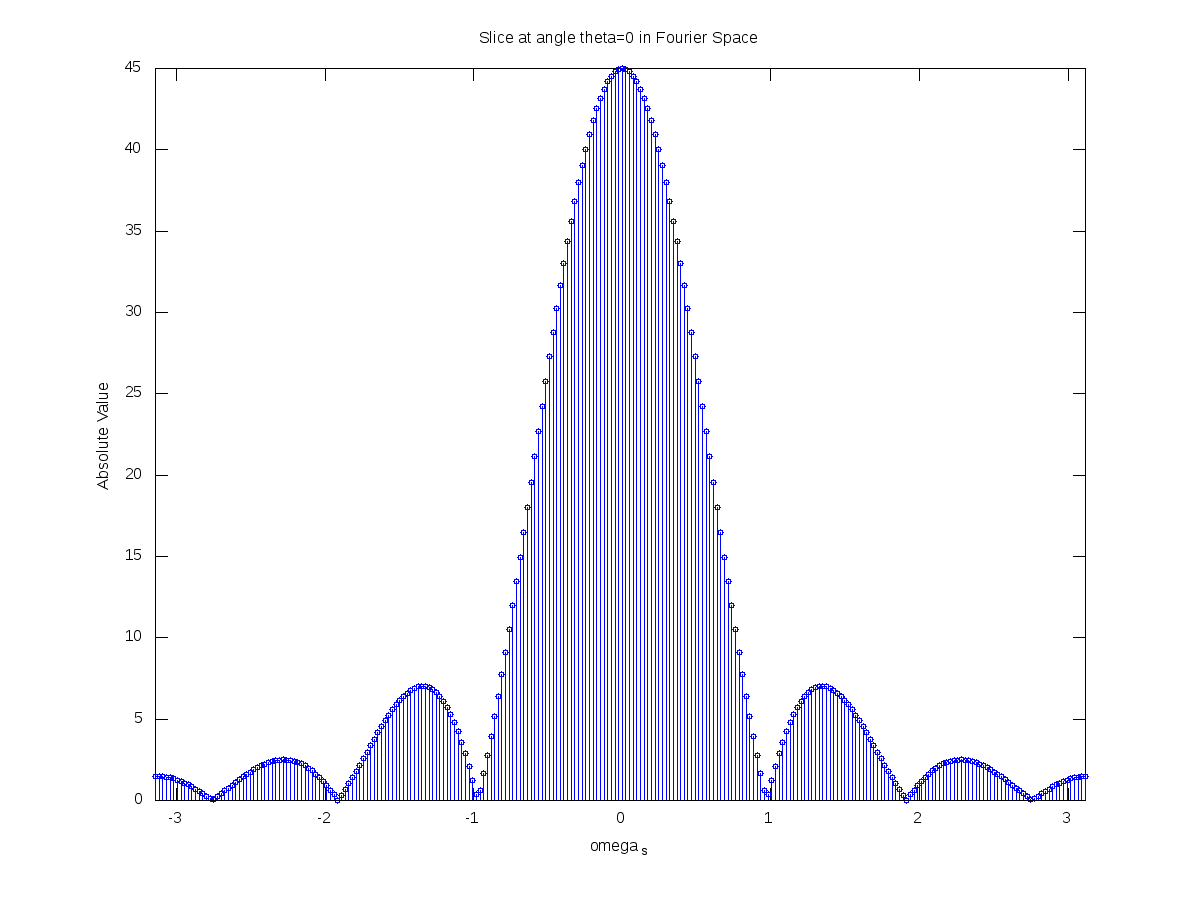
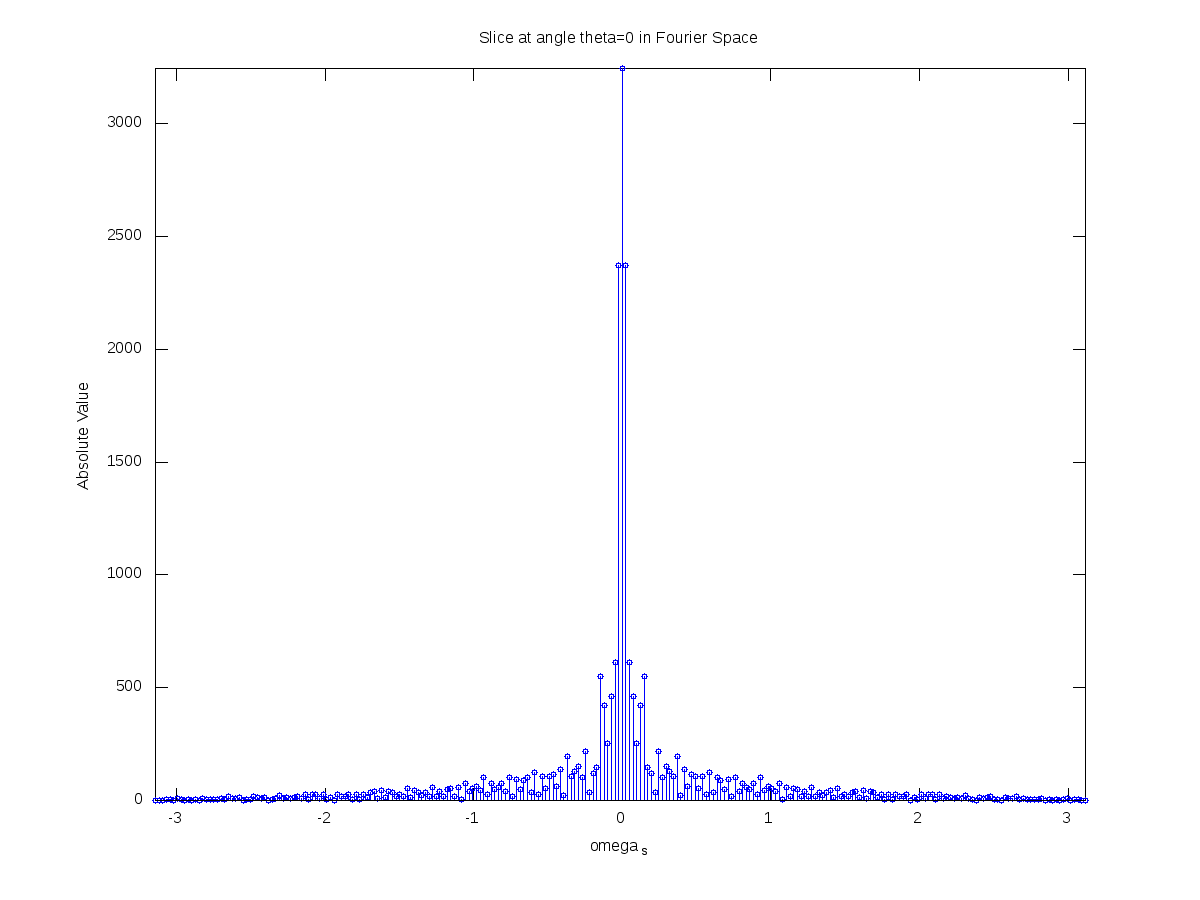
Change phantom to Modified Shepp-Logan

diff --git a/start_simulation.m b/start_simulation.m
@@ -14,20 +14,20 @@ DEBUG = 1;
 %% Parameters
 
 %! Shape of the phantom. Can be 'Shepp-Logan', 'Modified Shepp-Logan', 'dot', 'square', or 'stripe'.
-shape='dot';
+shape='Modified Shepp-Logan'
 
 %! Size of the phantom.
 % This specifies the number of rows and columns in the matrix of Phantom.
 % N_image is suggested to be an odd number.
-N_image = 231;
+N_image = 231
 
 %! Number of slices in Radon scan from 0deg to 180deg (excluding 180deg)
-N_theta = 180;
+N_theta = 180
 
 %! Signal to noise ratio.
-SNR = 0;
+SNR = 0
 
 %! Interpolation method
-interp_m = 'nearest';
+interp_m = 'nearest'
 
 main(shape,N_image,N_theta,SNR,interp_m,DEBUG);
